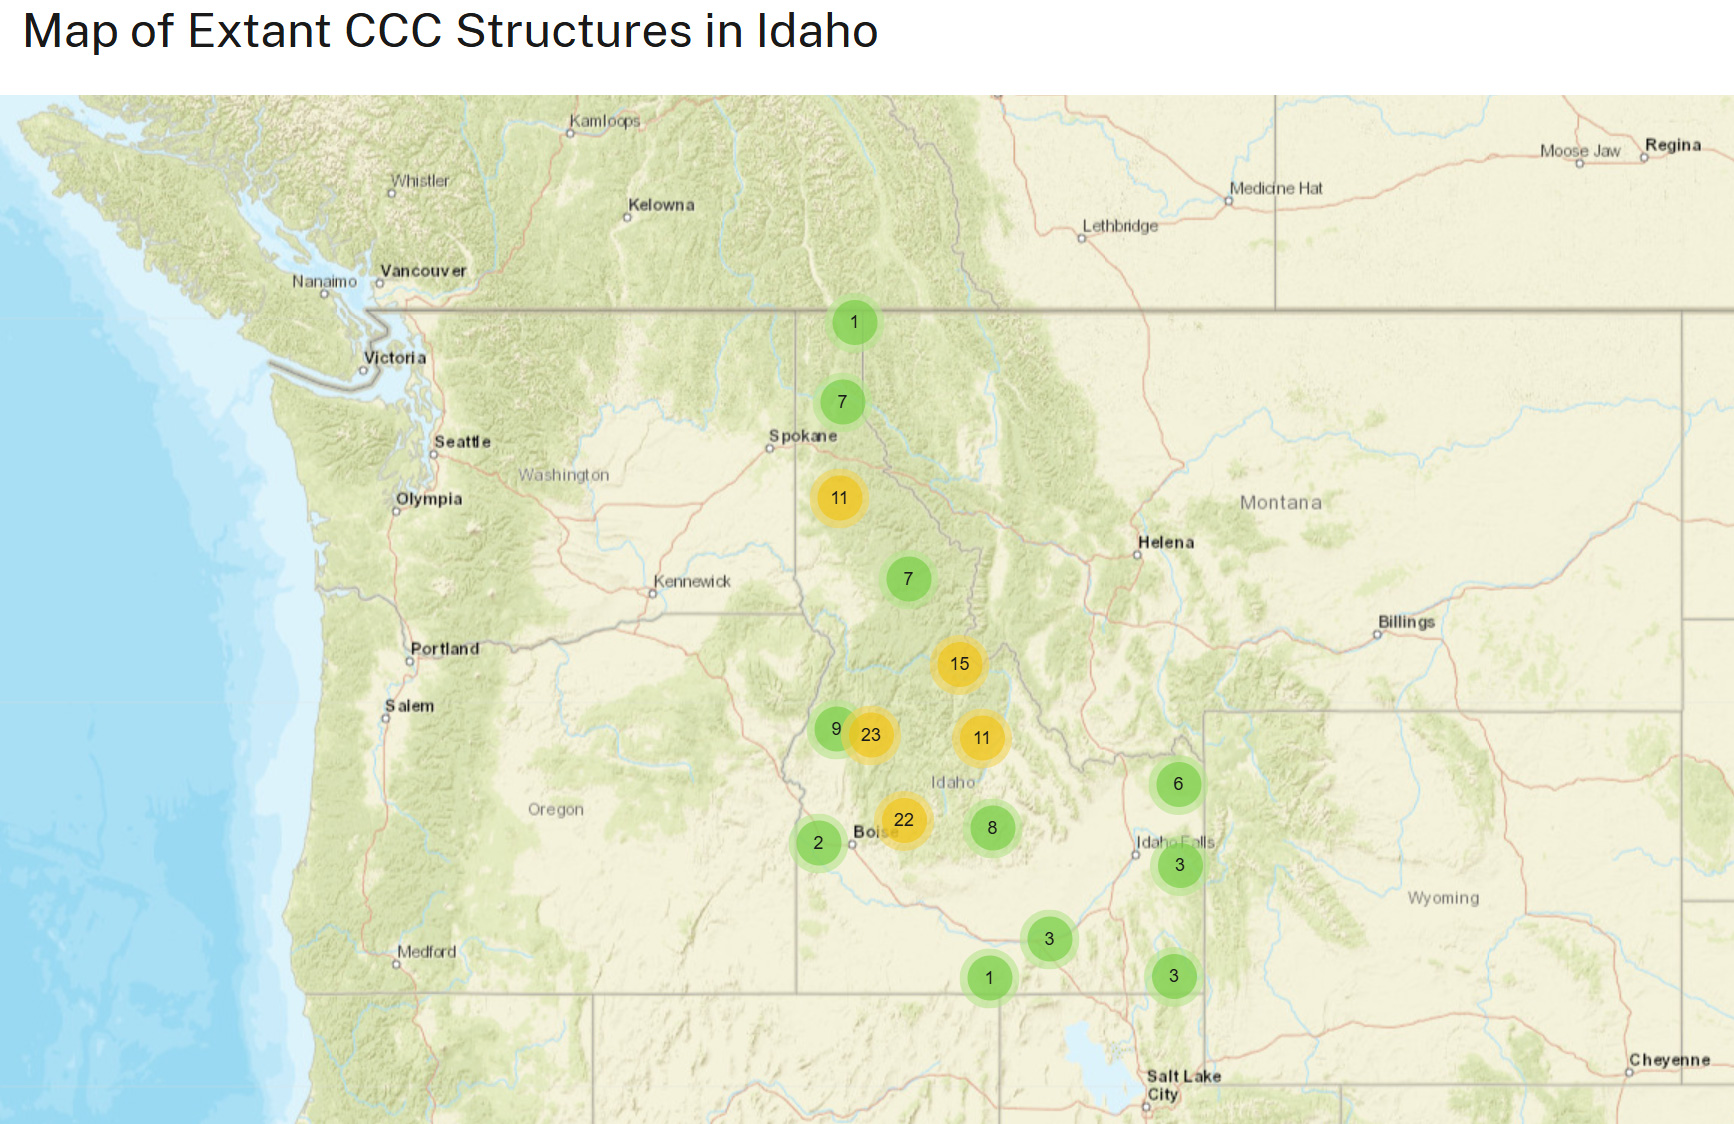
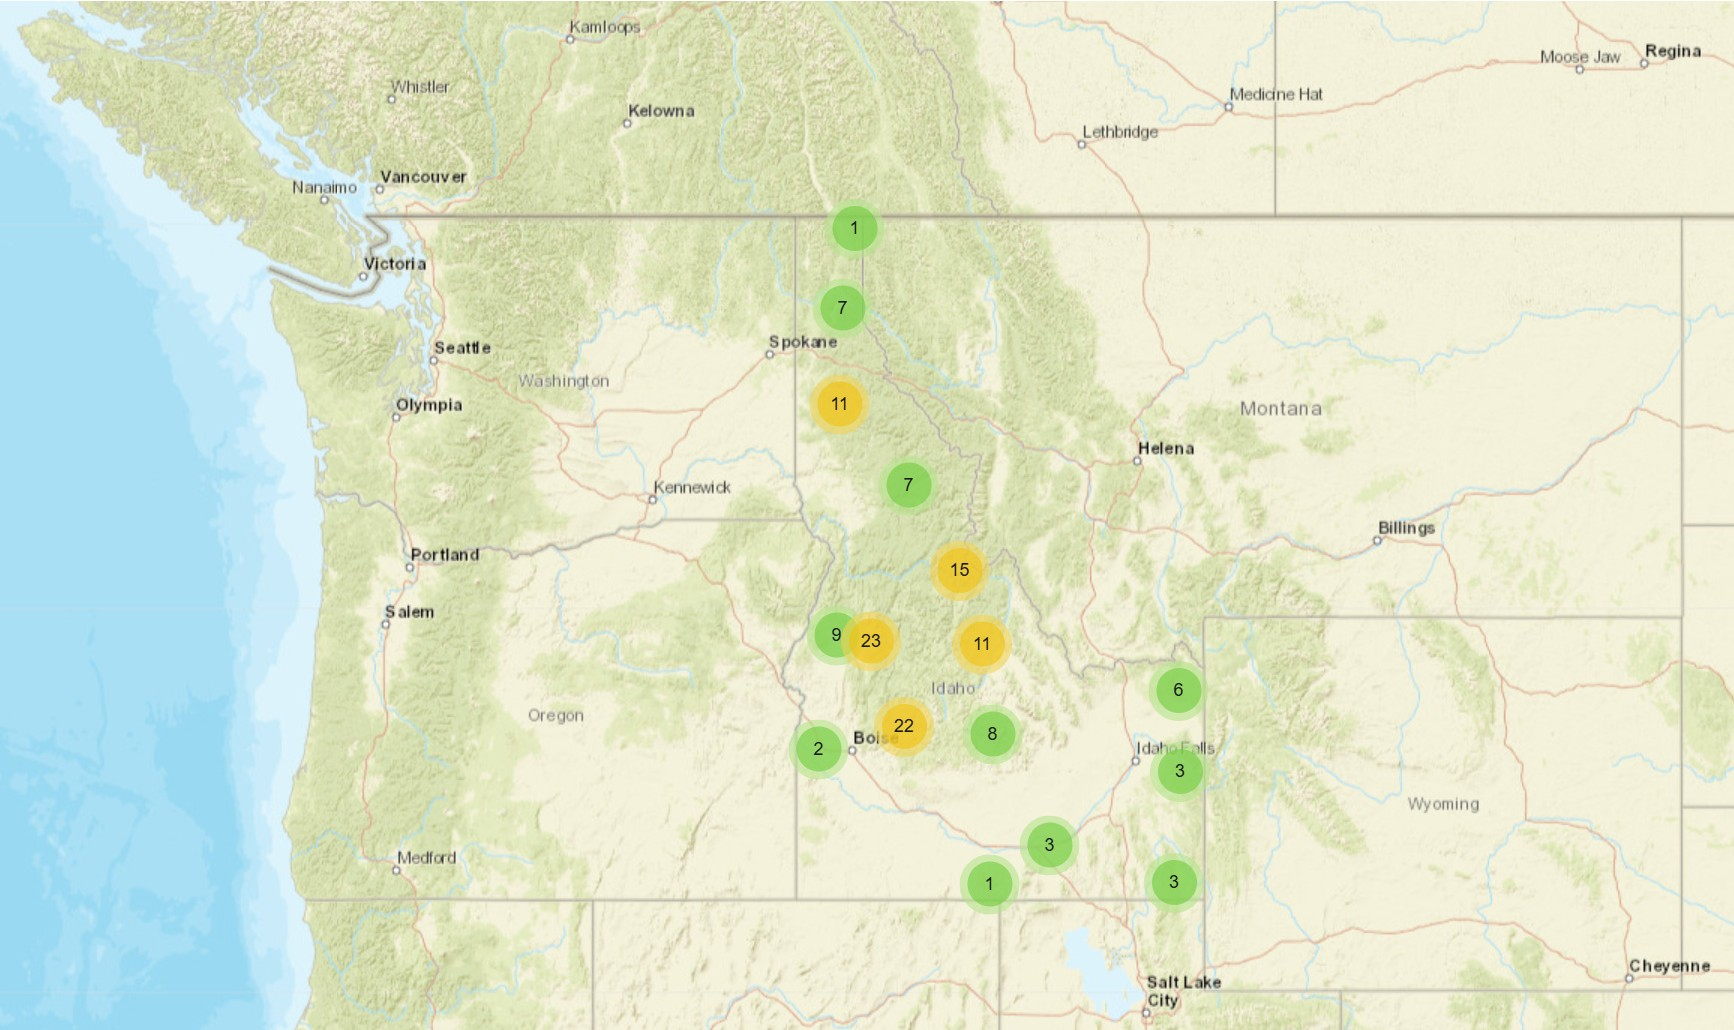
more edits to nationalevents

diff --git a/pages/nationalevents.md b/pages/nationalevents.md
@@ -62,7 +62,7 @@ The link below will take you the Civilian Conservation Corps in Idaho Collection
 
 You can learn more about how to navigate a digital collection, with K-12 teaching in mind, at [How To Use](https://thecdil.github.io/oep/howto.html).
 
-{% include feature/button.html text="Explore the collection" link="https://www.lib.uidaho.edu/digital/cccidaho" color="success" centered=true %}
+{% include feature/button.html text="Explore the collection" link="https://www.lib.uidaho.edu/digital/cccidaho/" color="success" centered=true %}
 
 #### Highlighted Items
 
@@ -74,7 +74,11 @@ You can learn more about how to navigate a digital collection, with K-12 teachin
 These are some highlighted items from the collection. Maybe we expand to include more librarian notes/context?
 
 ### Kooskia Internment Camp Scrapbook
-Following the Japanese attack on Pearl Harbor on December 7, 1941, President Roosevelt issued Executive Order 9066 which called for the incarceration of more than 100,000 Japanese and Japanese-Americans living in the US. In addition to Relocation Centers, commonly known as internment camps, the government operated Detention Camps for those people of Japanese descent categorized as disruptive. One such camp was located in Kooskia, Idaho. You can learn more about how to navigate a digital collection, with K-12 teaching in mind, at this ~ link to be created ~ .
+Following the Japanese attack on Pearl Harbor on December 7, 1941, President Roosevelt issued Executive Order 9066 which called for the incarceration of more than 100,000 Japanese and Japanese-Americans living in the US. In addition to Relocation Centers, commonly known as internment camps, the government operated Detention Camps for those people of Japanese descent categorized as disruptive. One such camp was located in Kooskia, Idaho.
+
+You can learn more about how to navigate a digital collection, with K-12 teaching in mind, at [How To Use](https://thecdil.github.io/oep/howto.html).
+
+{% include feature/button.html text="Explore the collection" link="https://www.lib.uidaho.edu/digital/kooskia/" color="success" centered=true %}
 
 #### Highlighted Items
 